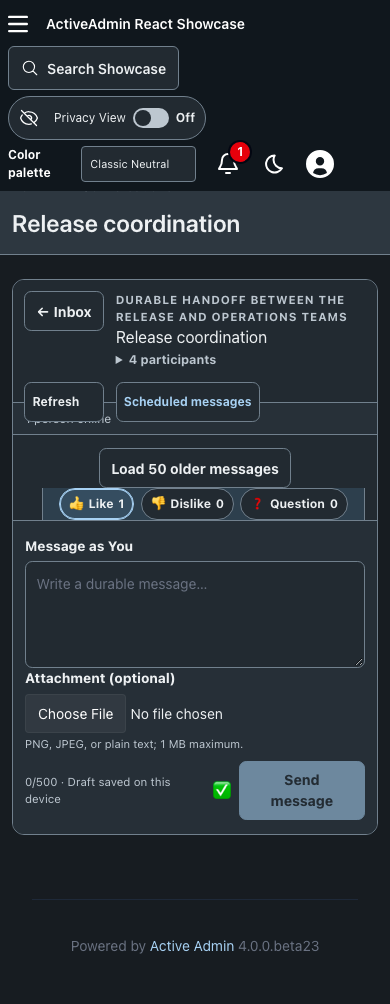
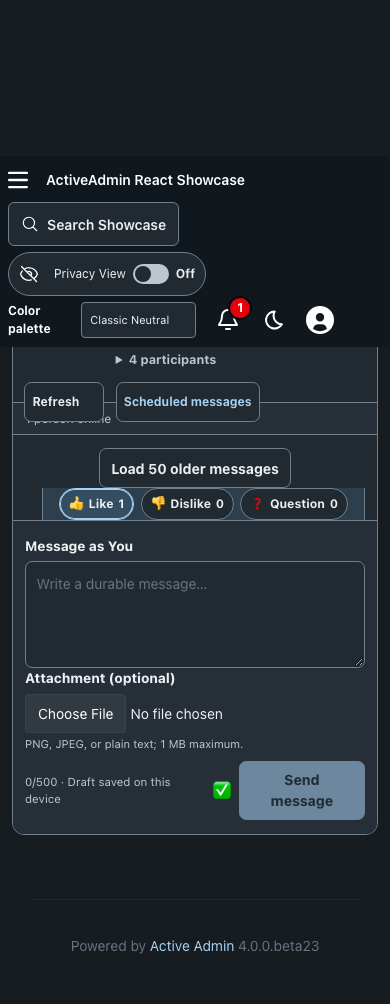
test: frame narrow disposition evidence

Changed region(s): [[0.0, 0.0618, 1.0, 0.3396], [0.1231, 0.0, 0.6154, 0.0309], [0.0308, 0.0, 0.0615, 0.0309]]

diff --git a/test/browser/conversation_workspace.spec.ts b/test/browser/conversation_workspace.spec.ts
@@ -124,8 +124,8 @@ test("enhances the durable conversation workflow at desktop and narrow widths", 
     const composerPanel = page.locator(".conversation-composer")
     await composerPanel.evaluate(element => { element.setAttribute("hidden", "") })
     await sentMessage.screenshot({ path: "docs/screenshots/conversation-reply-mention-390-dark.png" })
+    await sentMessage.screenshot({ path: "docs/screenshots/conversation-dispositions-390-dark.png" })
     await composerPanel.evaluate(element => { element.removeAttribute("hidden") })
-    await page.screenshot({ fullPage: true, path: "docs/screenshots/conversation-dispositions-390-dark.png" })
   }
 
   await sentMessage.getByRole("button", { name: "Edit" }).click()
